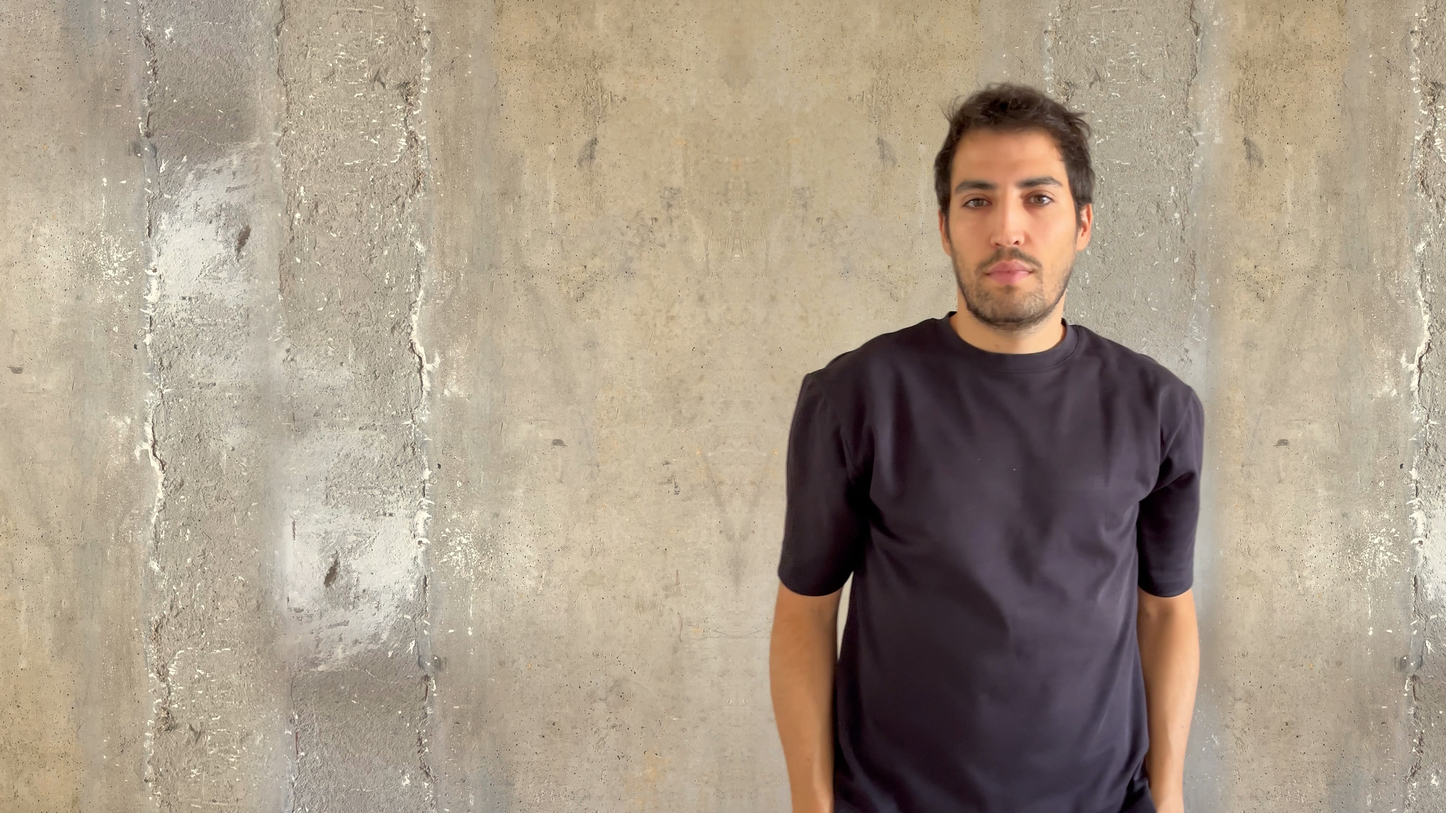
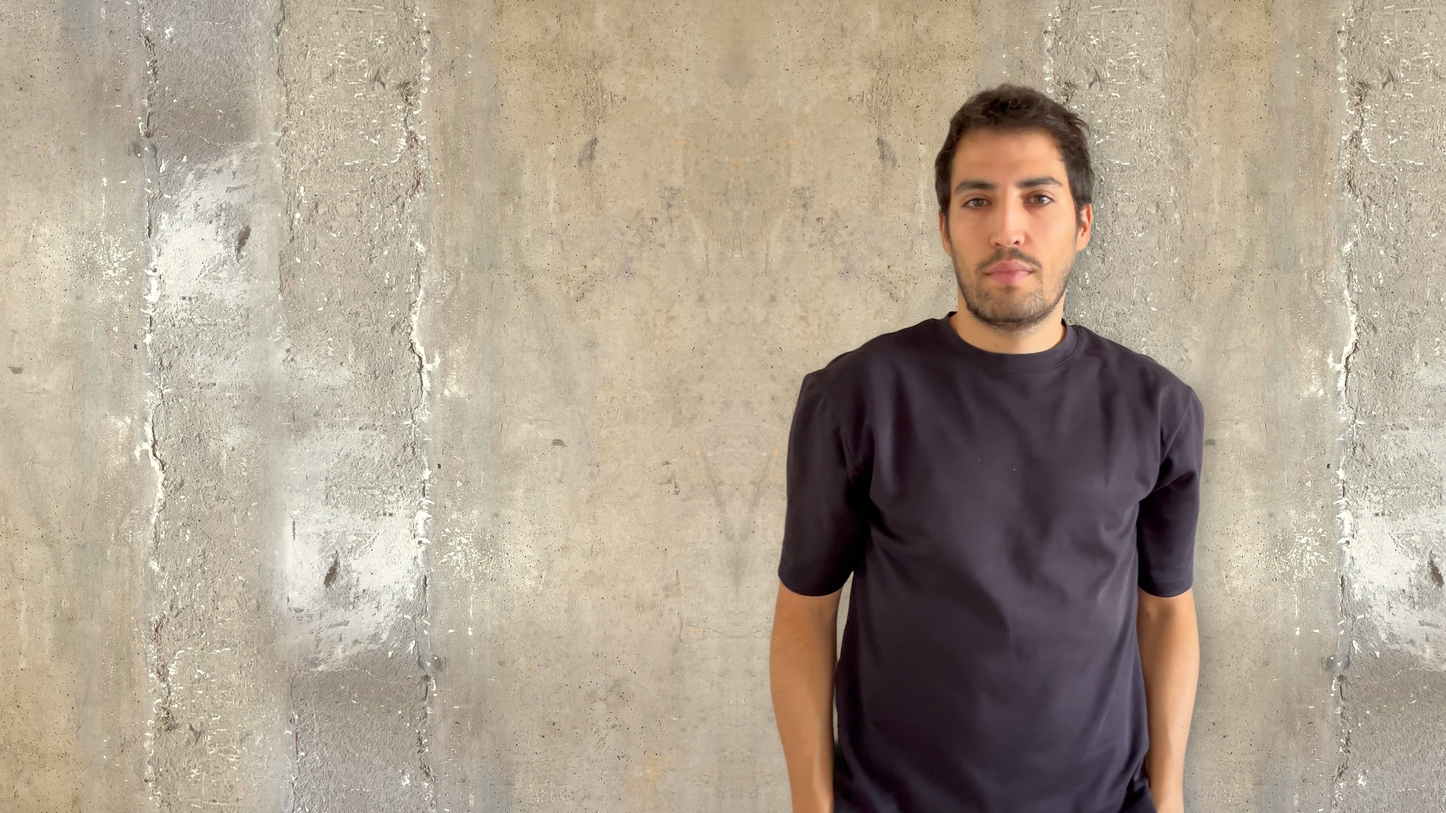
Hero: integrate Martin into the wall with person segmentation
Cut out with Apple Vision (scripts/person-mask.swift) and placed on the
empty-wall frame from the same camera position, colour-matched across
the width, with a soft wall shadow; wall joins blended. Removes the
pasted-on look caused by the seam running along the arms.

diff --git a/scripts/person-mask.swift b/scripts/person-mask.swift
@@ -1,0 +1,20 @@
+// Writes a person-segmentation mask (white = person) for a still frame, using
+// Apple Vision. Used to place Martin on the empty-wall frame for the hero.
+//   swift scripts/person-mask.swift <frame.png> <mask.png>
+import Foundation
+import Vision
+import CoreImage
+import CoreImage.CIFilterBuiltins
+
+let args = CommandLine.arguments
+let input = URL(fileURLWithPath: args[1]), output = URL(fileURLWithPath: args[2])
+let image = CIImage(contentsOf: input)!
+let request = VNGeneratePersonSegmentationRequest()
+request.qualityLevel = .accurate
+request.outputPixelFormat = kCVPixelFormatType_OneComponent8
+try VNImageRequestHandler(ciImage: image).perform([request])
+var mask = CIImage(cvPixelBuffer: request.results!.first!.pixelBuffer)
+mask = mask.transformed(by: CGAffineTransform(scaleX: image.extent.width / mask.extent.width, y: image.extent.height / mask.extent.height))
+let ctx = CIContext()
+try ctx.writePNGRepresentation(of: mask, to: output, format: .L8, colorSpace: CGColorSpaceCreateDeviceGray())
+print("mask", mask.extent)

diff --git a/content/profile.ts b/content/profile.ts
@@ -20,8 +20,9 @@ export const profile = {
   // Hero photo: frame 2766 (46.1 s) of "Personal Picture.MOV", untouched
   // colour: HDR → SDR with Apple's own conversion (`avconvert`, as QuickTime
   // shows it), no grading. Desktop: public/hero.jpg (4000×2250), head to waist,
-  // ~70% across; the wall extended with the clip's empty-wall frames
-  // (colour-matched; mirrored and unused wall pieces, blended). Phones:
+  // ~70% across. Martin is cut out with Apple Vision person segmentation
+  // (scripts/person-mask.swift) and placed on the clip's empty-wall frame
+  // (same camera position, colour-matched), with a soft wall shadow. Phones:
   // public/hero-mobile.jpg (1600×1200 head-and-shoulders crop of the same
   // frame). `focus` keeps the subject in frame on desktop.
   heroImage: {

diff --git a/CLAUDE.md b/CLAUDE.md
@@ -83,7 +83,7 @@ public/
 ## Homepage sections (in order)
 
 1. **Header:** "martin calo" wordmark (mono) left; nav right: work, contact (in-page anchors). On the homepage it is laid over the hero, so the wall shows behind it (dark mode adds a dark band at the top for contrast).
-2. **Hero** (fills the first screen below the header). ≥1200px: the concrete wall fills the whole hero in natural colour, Martin about 70% across with wall on both sides (`public/hero.jpg`, 4000×2250: frame 2766 (46.1 s) of `Personal Picture.MOV`, chosen by Martin, head to waist; the wall extended with the clip's empty-wall frames, colour-matched — mirrored on the left, unused wall on the right). The photo is the video's own colour: HDR→SDR via macOS `avconvert` (Apple's tone mapping, matches QuickTime), then frames extracted with ffmpeg; never ffmpeg's `colorspace` filter (looks pale). The headline sits directly on the wall (no wash in light mode) (tokens `--hero-wash*`: 22% to 36%→50% in light, 88% to 48%→66% in dark) and the hero ends with a clean edge against the dark Work section (no bottom fade on desktop). 768–1199px: the wide image in a 16:9 box above the text. Phones: `public/hero-mobile.jpg` (1600×1200 head-and-shoulders crop of the same frame) above the text. One `<picture>` via `getImageProps`. Save JPEGs as standard 4:2:0. Text: h1 = the role (must match LinkedIn); tagline "Building reliable systems." (not a heading); subtitle; no eyebrow, no contact links. Concrete stays in the hero only. A landscape reshoot with a slight smile would still improve it.
+2. **Hero** (fills the first screen below the header). ≥1200px: the concrete wall fills the whole hero in natural colour, Martin about 70% across with wall on both sides (`public/hero.jpg`, 4000×2250: frame 2766 (46.1 s) of `Personal Picture.MOV`, chosen by Martin, head to waist; Martin cut out with Apple Vision person segmentation (`scripts/person-mask.swift`, run with `swift`) and placed on the clip's empty-wall frame from the same camera position, colour-matched across the width, with a soft shadow; the wall is extended left with mirrored pieces of the same frame). The photo is the video's own colour: HDR→SDR via macOS `avconvert` (Apple's tone mapping, matches QuickTime), then frames extracted with ffmpeg; never ffmpeg's `colorspace` filter (looks pale). The headline sits directly on the wall (no wash in light mode) (tokens `--hero-wash*`: 22% to 36%→50% in light, 88% to 48%→66% in dark) and the hero ends with a clean edge against the dark Work section (no bottom fade on desktop). 768–1199px: the wide image in a 16:9 box above the text. Phones: `public/hero-mobile.jpg` (1600×1200 head-and-shoulders crop of the same frame) above the text. One `<picture>` via `getImageProps`. Save JPEGs as standard 4:2:0. Text: h1 = the role (must match LinkedIn); tagline "Building reliable systems." (not a heading); subtitle; no eyebrow, no contact links. Concrete stays in the hero only. A landscape reshoot with a slight smile would still improve it.
 3. **Experience sections** (dark "stage" background, reverse chronological). Each is a video section (see "Video sections" below): label in mono capitals without numbers (`NOW · METRIFY · BERLIN`), title, 3 short paragraphs (context, what I did, outcome), stack tags in mono, and a "Read the full story →" link to `/work/[slug]`. Text alternates sides on desktop (left, right, left).
    - **Metrify, now:** digitalizing the smart meter market. Video: `Meter 3.mp4` (1080p, no watermark), first 20 s at 2× (`SPEED=2 scripts/encode-video.sh meter "Meter 3.mp4" 0-20` → 10 s) so the counter visibly rolls; shown as the whole 16:9 frame on desktop (`frame: "whole"`), and also in the story header. The earlier `Meter.mp4` / `Meter 1.mp4` are watermarked iStock previews and must never be published.
    - **Tesla:** from machine controls to factory software. Video: a drive in a Tesla (`Tesla 3.mp4`, 36–44 s). Martin confirmed the right to publish the Tesla clips (30 Sept).
